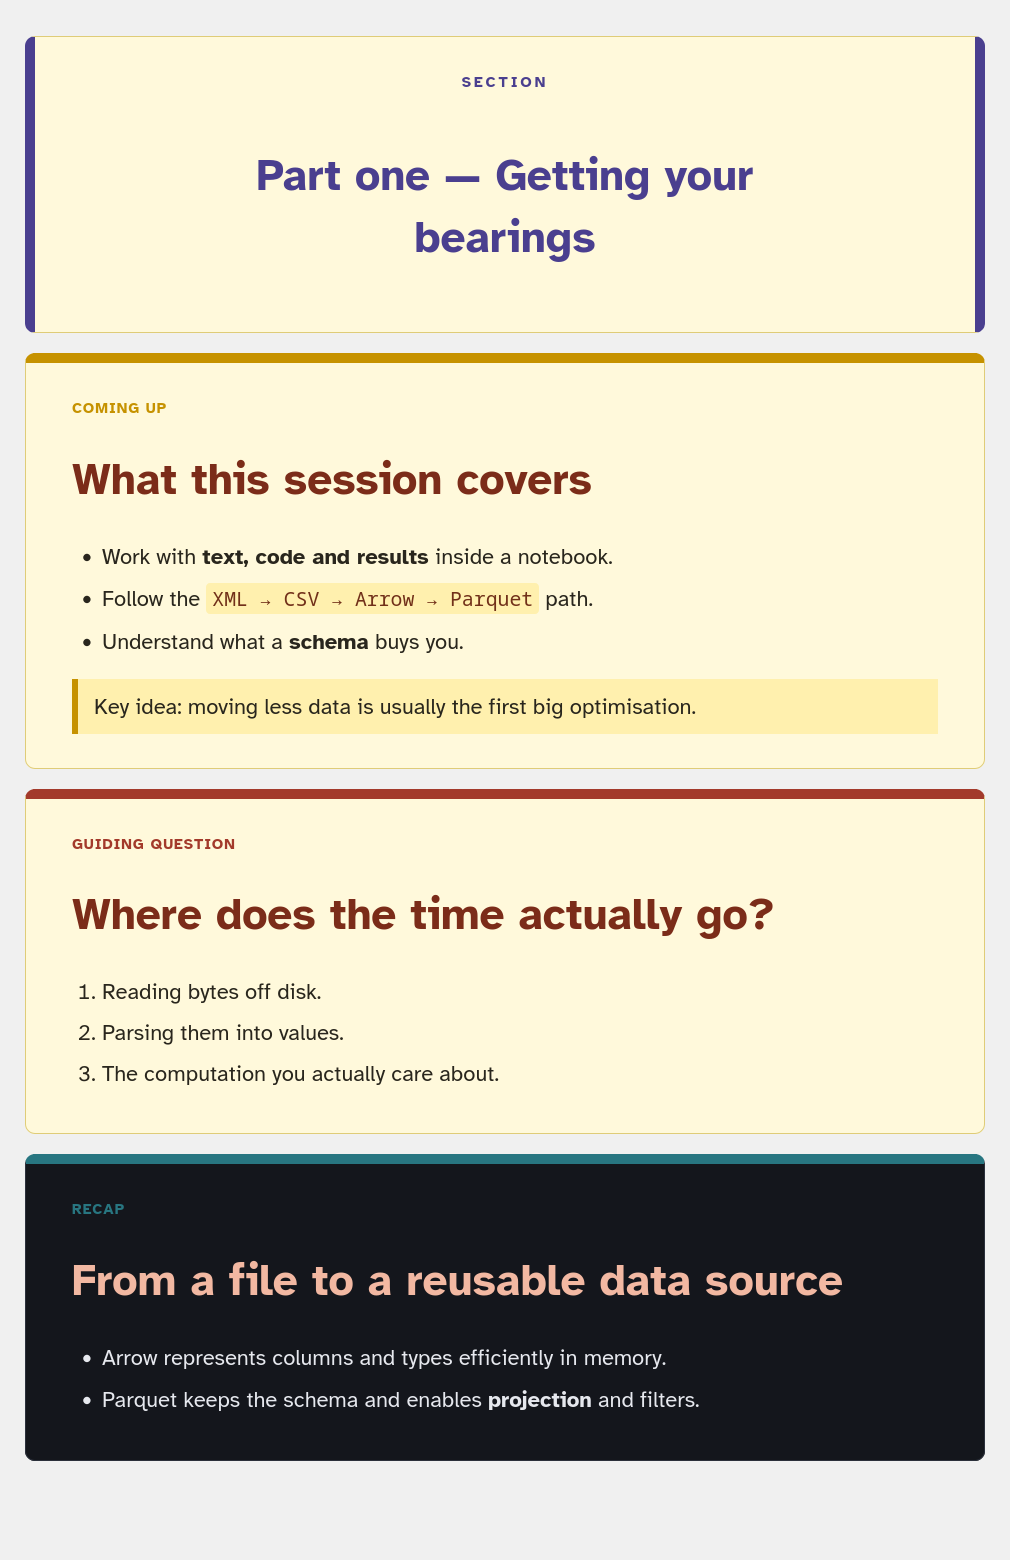
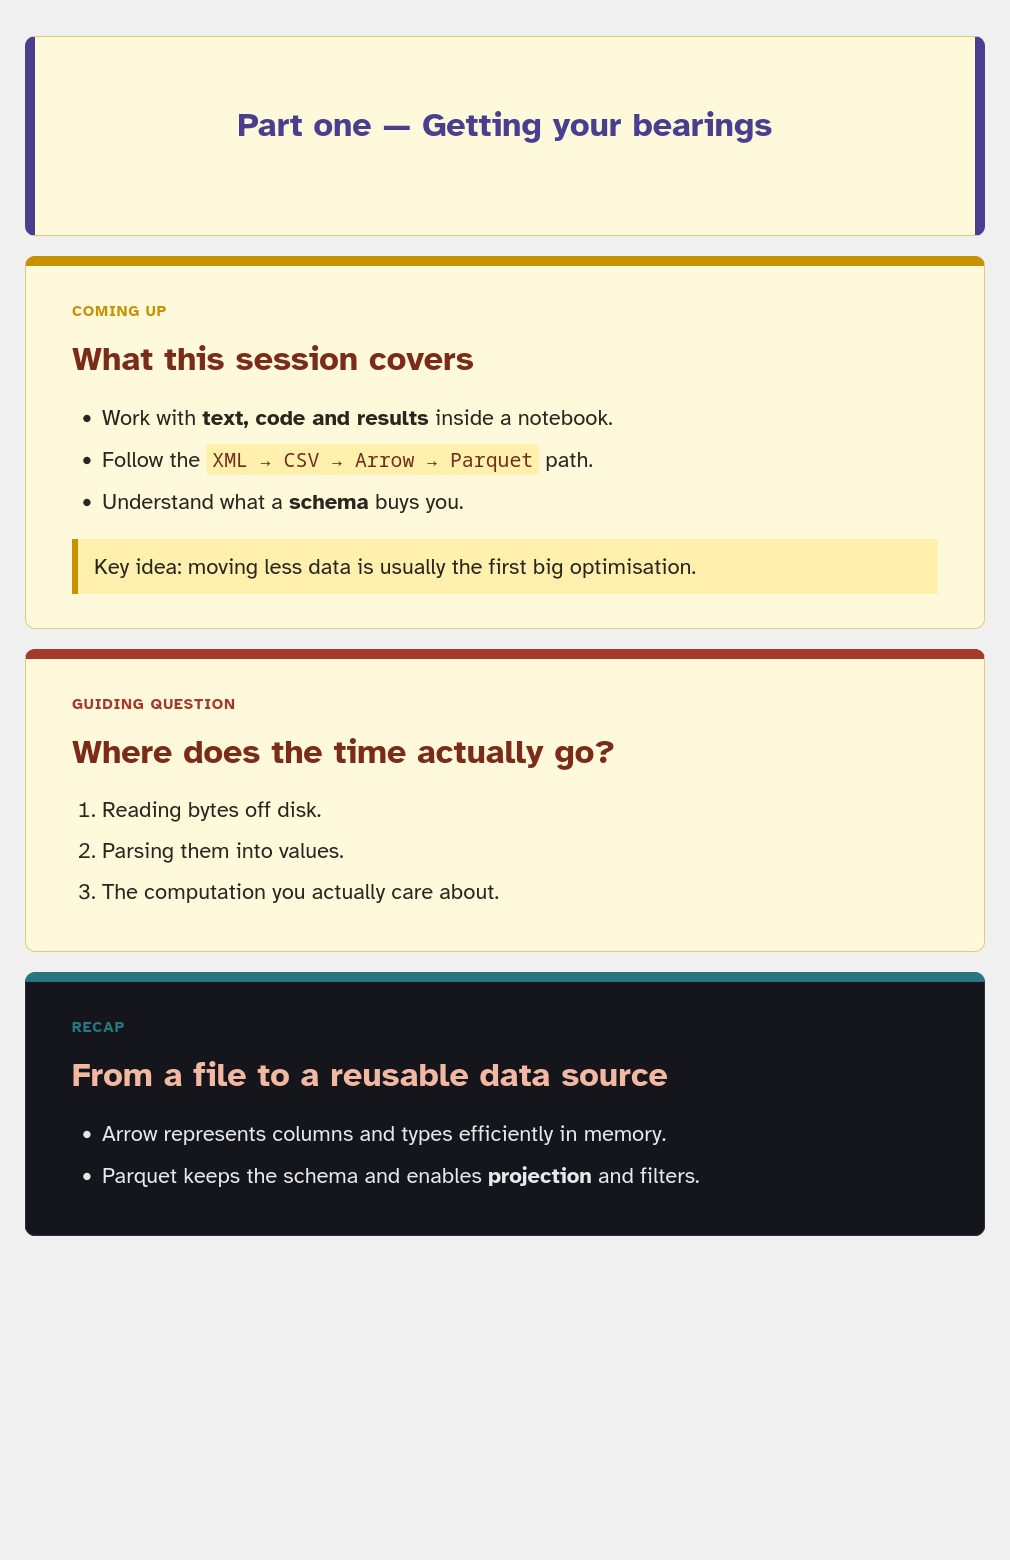
Fix title slide align, bump to 0.1.2.

diff --git a/src/notebook_slide/render.py b/src/notebook_slide/render.py
@@ -70,12 +70,22 @@ def format_inline(text: str, theme: Theme | None = None) -> str:
     return "".join(parts)
 
 
-def markdown_to_html(text: str, theme: Theme | None = None) -> str:
-    """Convert the slide Markdown dialect in ``text`` to an HTML fragment."""
+def markdown_to_html(
+    text: str,
+    theme: Theme | None = None,
+    *,
+    heading_align: str | None = None,
+) -> str:
+    """Convert the slide Markdown dialect in ``text`` to an HTML fragment.
+
+    ``heading_align`` is used by the title layout to centre headings without
+    changing the alignment inherited by the rest of the slide body.
+    """
     theme = theme or Theme()
     blocks: list[str] = []
     items: list[str] = []
     ordered = False
+    heading_alignment = f"text-align:{heading_align};" if heading_align else ""
 
     def close_list() -> None:
         nonlocal ordered
@@ -113,16 +123,19 @@ def markdown_to_html(text: str, theme: Theme | None = None) -> str:
             close_list()
             if line.startswith("# "):
                 blocks.append(
-                    f"<h1 style='color:{theme.heading};"
-                    f"font-family:{theme.headings_font};"
+                    f'<h1 style="color:{escape(theme.heading, quote=True)};'
+                    f"font-family:{escape(theme.headings_font, quote=True)};"
                     f"font-size:{theme.heading_font_size};line-height:1.15;"
-                    "margin:0 0 22px'>" + format_inline(line[2:], theme) + "</h1>"
+                    f'{heading_alignment}margin:0 0 22px">'
+                    + format_inline(line[2:], theme)
+                    + "</h1>"
                 )
             elif line.startswith("## "):
                 blocks.append(
-                    f"<h2 style='color:{theme.subheading};"
-                    f"font-family:{theme.headings_font};"
-                    f"font-size:{theme.subheading_font_size};margin:18px 0 8px'>"
+                    f'<h2 style="color:{escape(theme.subheading, quote=True)};'
+                    f"font-family:{escape(theme.headings_font, quote=True)};"
+                    f"font-size:{theme.subheading_font_size};"
+                    f'{heading_alignment}margin:18px 0 8px">'
                     + format_inline(line[3:], theme)
                     + "</h2>"
                 )
@@ -156,8 +169,9 @@ def render_slide(
     """Render ``body`` as a self-contained slide and return its HTML.
 
     ``slide_type`` supplies the badge label, the accent colour and the layout;
-    ``theme`` supplies everything else.  Pass ``label`` to override the badge
-    text for this slide only.
+    ``theme`` supplies everything else.  Default-layout slides render the
+    badge; title-layout slides omit it.  Pass ``label`` to override the badge
+    text for a default-layout slide only.
     """
     theme = slide_type.resolve_theme(theme or Theme())
     badge = label if label is not None else slide_type.label
@@ -169,7 +183,7 @@ def render_slide(
         # otherwise, its heading takes the accent colour too.
         if "heading" not in slide_type.overrides:
             theme = theme.replace(heading=theme.accent)
-        return _render_title(markdown_to_html(body, theme), badge, theme)
+        return _render_title(markdown_to_html(body, theme, heading_align="center"), theme)
     return _render_default(content, badge, theme)
 
 
@@ -196,15 +210,8 @@ def _render_default(content: str, badge: str, theme: Theme) -> str:
 """
 
 
-def _render_title(content: str, badge: str, theme: Theme) -> str:
-    """Section divider: centred, accent-framed and visually quieter."""
-    badge_html = (
-        f'<div style="color:{theme.accent};font-size:{theme.label_font_size};'
-        "font-weight:bold;letter-spacing:3px;margin-bottom:22px;"
-        f'text-transform:uppercase">{escape(badge)}</div>'
-        if badge
-        else ""
-    )
+def _render_title(content: str, theme: Theme) -> str:
+    """Section divider with centred headings and a left-aligned body."""
     return f"""
 {_font_link(theme)}<div style="box-sizing:border-box;width:100%;max-width:{theme.max_width};
      min-height:{theme.min_height};margin:{theme.margin};padding:{theme.padding};
@@ -215,8 +222,7 @@ def _render_title(content: str, badge: str, theme: Theme) -> str:
      border-radius:{theme.border_radius};font-family:{theme.font_family};
      font-size:{theme.font_size};line-height:{theme.line_height};
      display:flex;flex-direction:column;justify-content:center;
-     text-align:center;overflow:hidden">
-  {badge_html}
-  <div style="margin:0 auto;max-width:44ch">{content}</div>
+     text-align:left;overflow:hidden">
+  <div style="margin:0 auto;max-width:44ch;text-align:left">{content}</div>
 </div>
 """

diff --git a/tests/test_render.py b/tests/test_render.py
@@ -75,12 +75,14 @@ def test_default_font_is_atkinson_hyperlegible():
     assert "fonts.googleapis.com" in html
 
 
-def test_title_layout_is_centred_and_framed():
-    html = slide_html("# Part two", type="title")
-    assert "text-align:center" in html
+def test_title_layout_centres_headings_but_left_aligns_body():
+    html = slide_html("# Part two\n## Subtitle\n\n- first\n- second", type="title")
+    assert html.count("text-align:center") == 2
+    assert "max-width:44ch;text-align:left" in html
+    assert "<ul style='margin:18px 0 8px;padding-left:30px'>" in html
     assert "border-left:10px solid" in html
-    assert "SECTION" not in html  # the label is uppercased by CSS, not by us
-    assert "Section" in html
+    assert "SECTION" not in html
+    assert "Section" not in html
 
 
 def test_default_layout_is_left_aligned():

diff --git a/README.md b/README.md
@@ -44,7 +44,7 @@ In a notebook (Colab included), install and load in one go:
 %load_ext notebook_slide
 ```
 
-Pin a release with `@v0.1.0` at the end of the URL.
+Pin a release with `@v0.1.2` at the end of the URL.
 
 ## Slide types
 
@@ -53,7 +53,7 @@ Pin a release with `@v0.1.0` at the end of the URL.
 | `preview` (default) | Coming up | left-aligned | what the next stretch of notebook will do |
 | `summary` | Recap | left-aligned | what the reader should take away |
 | `question` | Guiding question | left-aligned | the question the next cells answer |
-| `title` | Section | centred, framed both sides | a section break between parts |
+| `title` | — | centred headings, left-aligned body, framed both sides | a section break between parts |
 
 ```python
 %%slide title
@@ -160,7 +160,7 @@ ns.register_slide_type("warning", "Careful", "#b45309", background="#fff7ed")
 ```
 
 Two layouts exist: `"default"` (left-aligned content) and `"title"` (centred
-section divider).
+headings with a left-aligned body, framed as a section divider).
 
 Prefer to write the magic in your own language? Register an alias:
 
@@ -224,7 +224,9 @@ uv run ruff format .
 ```
 
 Versioning follows [Semantic Versioning](https://semver.org/); see
-[CHANGELOG.md](CHANGELOG.md).
+[CHANGELOG.md](CHANGELOG.md). When the version in `pyproject.toml` changes on
+`main`, GitHub Actions builds the package and creates the corresponding GitHub
+release and `v<version>` tag automatically.
 
 ## License
 

diff --git a/CHANGELOG.md b/CHANGELOG.md
@@ -6,6 +6,19 @@ All notable changes to this project are documented here. The format follows
 
 ## [Unreleased]
 
+## [0.1.2] - 2026-09-08
+
+### Changed
+
+- Title slides no longer show a section badge; headings remain centred while
+  their body content is left-aligned.
+- The README now points at the current `v0.1.2` release.
+
+### Added
+
+- GitHub Actions now creates a `v<version>` tag and GitHub release when the
+  project version changes on `main`.
+
 ## [0.1.1] - 2026-09-07
 
 ### Fixed
@@ -38,6 +51,7 @@ the BDGE course notebooks and translated to English.
 - Python API (`slide`, `slide_html`, `markdown_to_html`, `format_inline`) for
   use outside notebooks.
 
-[Unreleased]: https://github.com/dsevilla/jupyter-notebook-slide/compare/v0.1.1...HEAD
+[Unreleased]: https://github.com/dsevilla/jupyter-notebook-slide/compare/v0.1.2...HEAD
+[0.1.2]: https://github.com/dsevilla/jupyter-notebook-slide/compare/v0.1.1...v0.1.2
 [0.1.1]: https://github.com/dsevilla/jupyter-notebook-slide/compare/v0.1.0...v0.1.1
 [0.1.0]: https://github.com/dsevilla/jupyter-notebook-slide/releases/tag/v0.1.0
